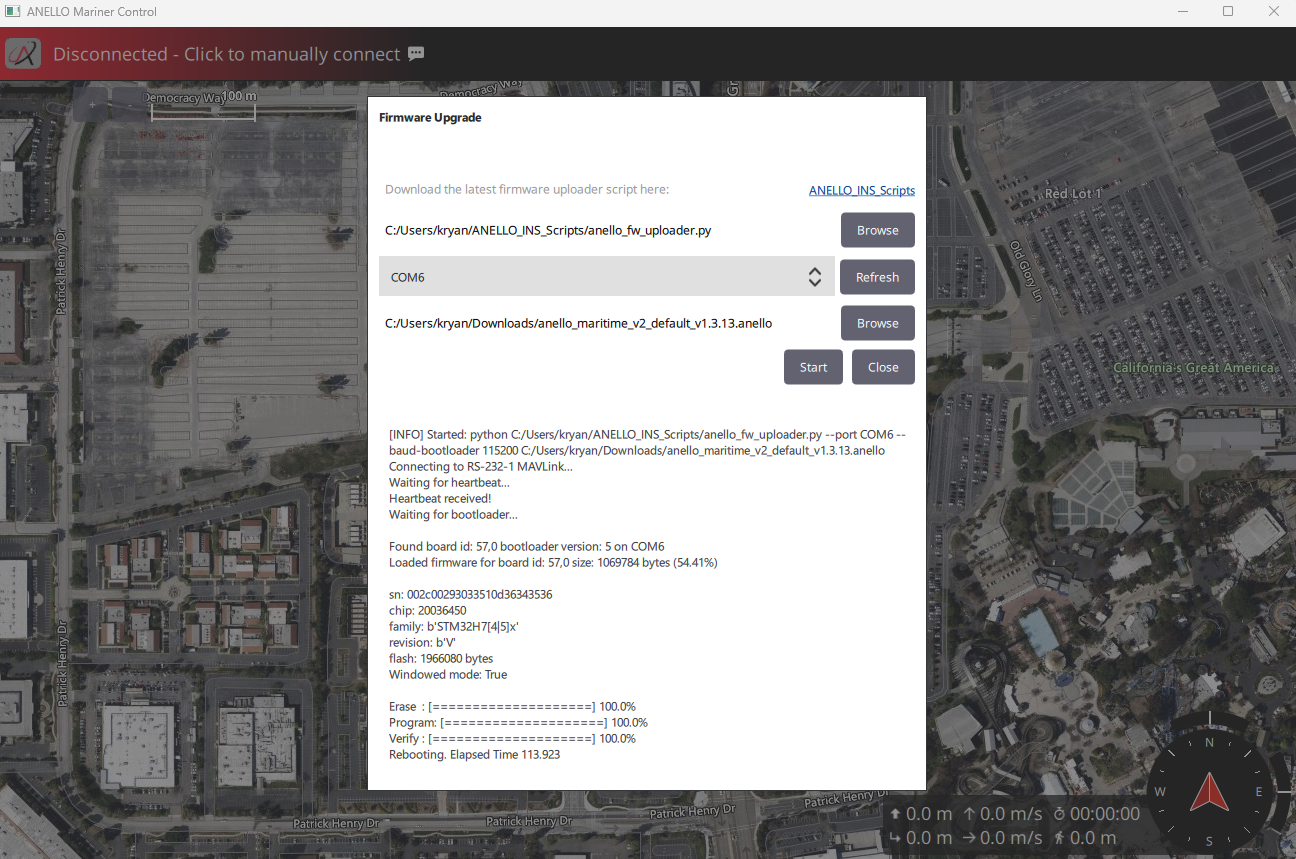
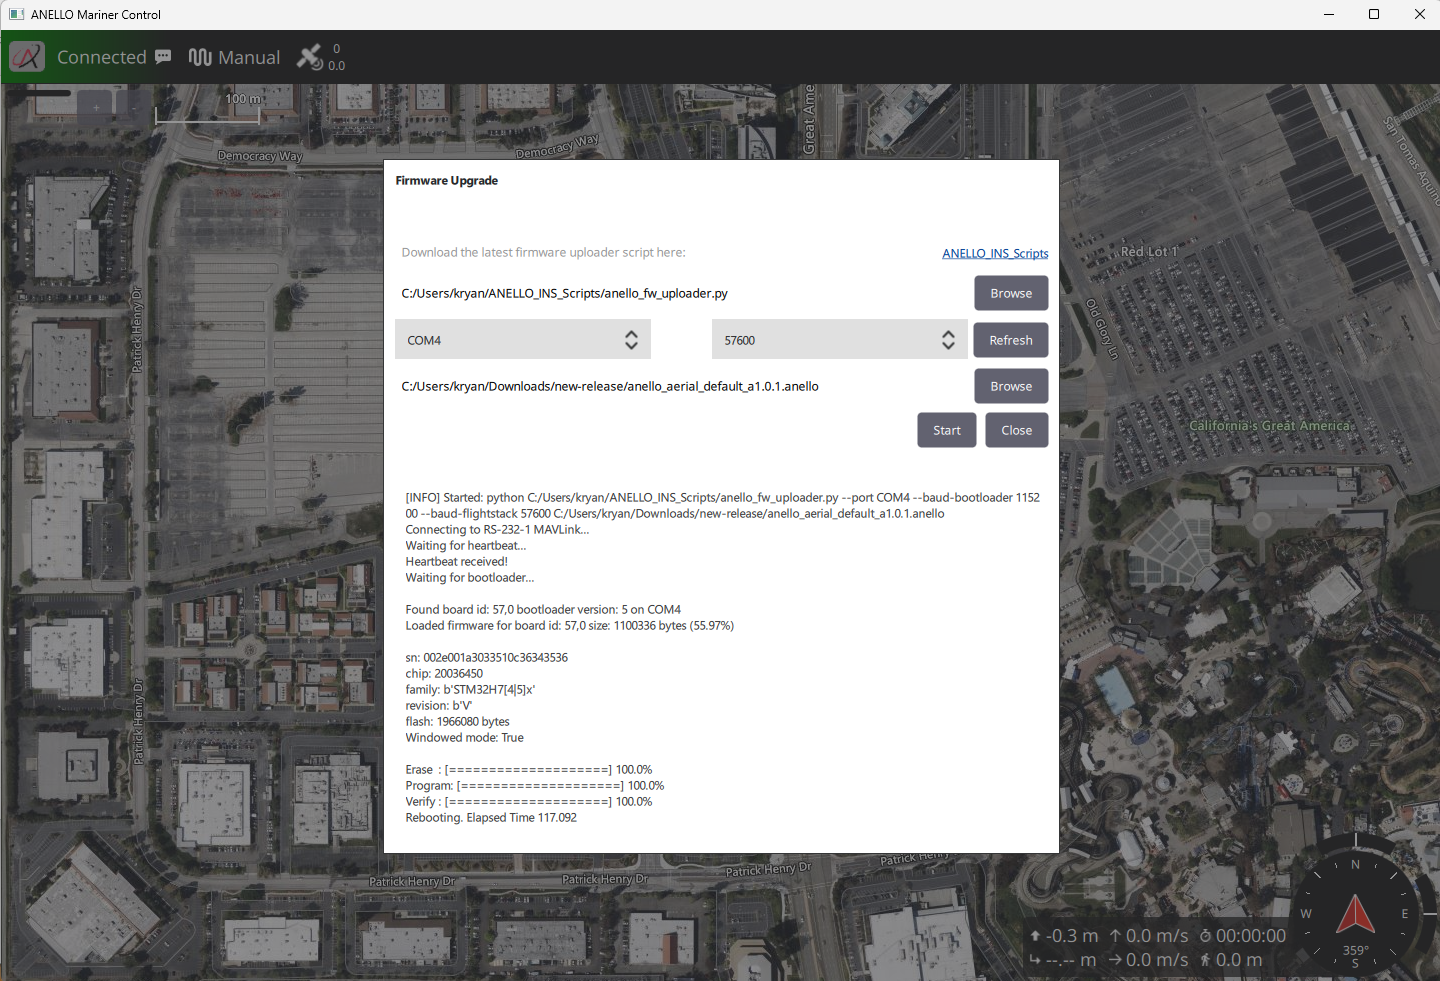
updated GPS and autocal toggle PGN's and update AMC FW update instructions

diff --git a/docs/communication_messaging.rst b/docs/communication_messaging.rst
@@ -636,10 +636,11 @@ Accurately describes the speed of a vessel by component vectors.
 
 Logged topic: NMEA2000_VESSEL_SPEED
 
-2.2.7 PGN 65281: GPS Control
+2.2.7 PGN 61184: GPS Control
 ^^^^^^^^^^^^^^^^^^^^^^^^^^^^^^^
 
 ANELLO proprietary message used to enable or disable the GPS through the NMEA2000 interface.
+CAN ID format: 0x18EF<dest><src>
 
 +---+------------+----------------------------------+------+----------------+
 | # | Field      | Description                      | Unit | Type           |
@@ -650,15 +651,16 @@ ANELLO proprietary message used to enable or disable the GPS through the NMEA200
 +---+------------+----------------------------------+------+----------------+
 
 .. note::
-   Aerial INS uses field 1 from this PGN.
+   Maritime INS uses field 1 from this PGN.
 
 Logged topic: NMEA2000_GPSCTRL
 
 
-2.2.8 PGN 65282: Speed Sensor Auto-Calibration Control (ANELLO Proprietary)
+2.2.8 PGN 126720: Speed Sensor Auto-Calibration Control (ANELLO Proprietary)
 ^^^^^^^^^^^^^^^^^^^^^^^^^^^^^^^^^^^^^^^^^^^^^^^^^^^^^^^^^^^^^^^^^^^^^^^^^^^^^^
 
 ANELLO proprietary NMEA 2000 message used to start/stop the speed sensor auto-calibration routine. The default state is 0 (not in auto-calibration mode).
+CAN ID format: 0x19EF<dest><src>
 
 +-------+----------------------------+-----------------------------------------------------------+------+------------------+
 | Field | Name                       | Description                                               | Unit | Type             |

diff --git a/docs/fw_upgrade.rst b/docs/fw_upgrade.rst
@@ -40,7 +40,7 @@ Firmware Upgrade Procedure with AMarinerControl
 
 To upgrade FW using AMarinerControl, the ANELLO FW upgrade python script still needs to be downloaded from the following public Git repo: `ANELLO_INS_Scripts <https://github.com/Anello-Photonics/ANELLO_INS_Scripts.git>`__
 
-Also make sure your installation of `AMarinerControl <https://github.com/Anello-Photonics/amarinercontrol/releases/v1.2.1/>`__ is v1.2.1 or higher. 
+Also make sure your installation of `AMarinerControl <https://github.com/Anello-Photonics/amarinercontrol/releases/v1.2.2/>`__ is v1.2.2 or higher. 
 
 1. Connect RS-232-1 to the computer.
 2. Open AMarinerControl and select "Firmware Upgrade"
@@ -51,7 +51,7 @@ Also make sure your installation of `AMarinerControl <https://github.com/Anello-
 
 3. Download the ANELLO-provided FW image onto your local computer (Link also exists in AMarinerControl FW upgrade screen).
 4. Select firmware upgrade python script stored on local computer in first box.
-5. Select which connected serial port is RS-232-1 in drop down menu.
+5. Select which connected serial port is RS-232-1 and select baudrate in drop down menus.
 6. Select path to downloaded firmware image on local computer in next box.
 7. Press "Start"
 8. After it completes, you will see "Rebooting. Elapsed Time x.x" - this means the FW upgrade was successful.
